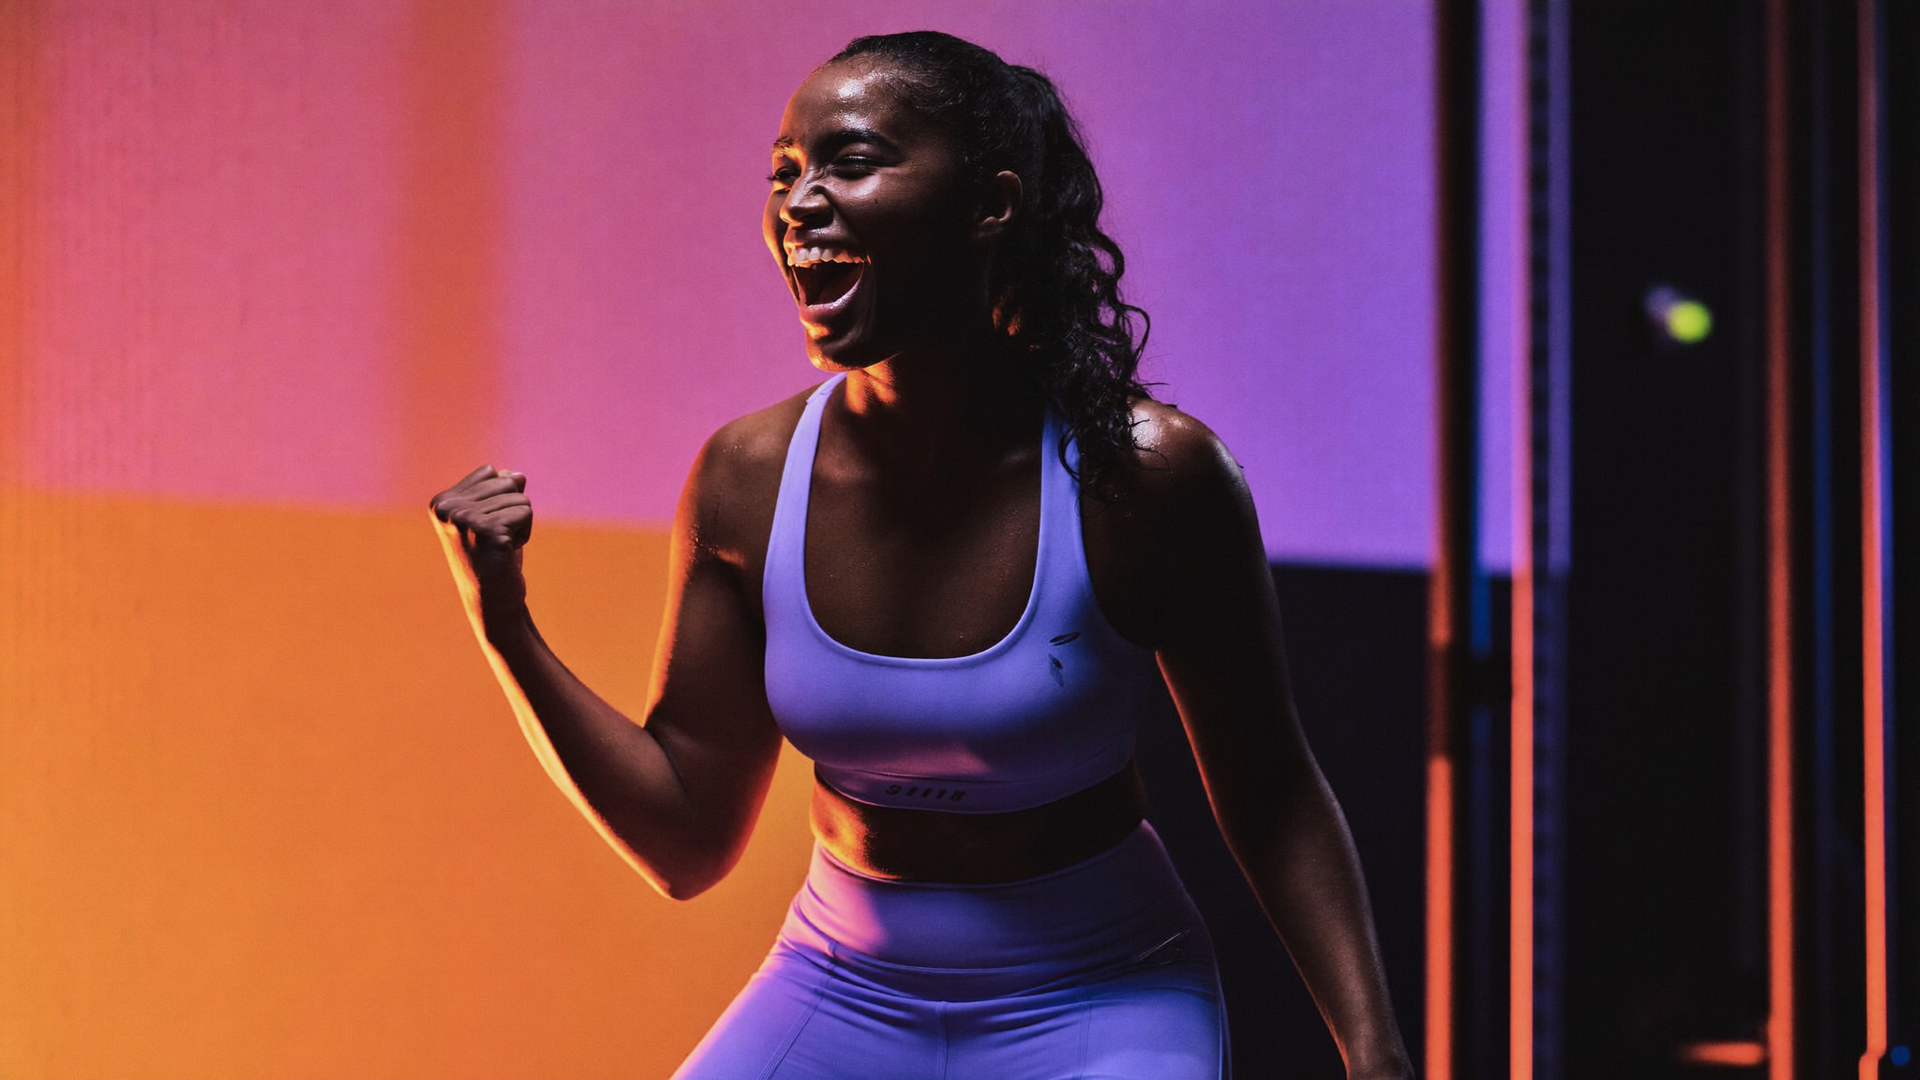
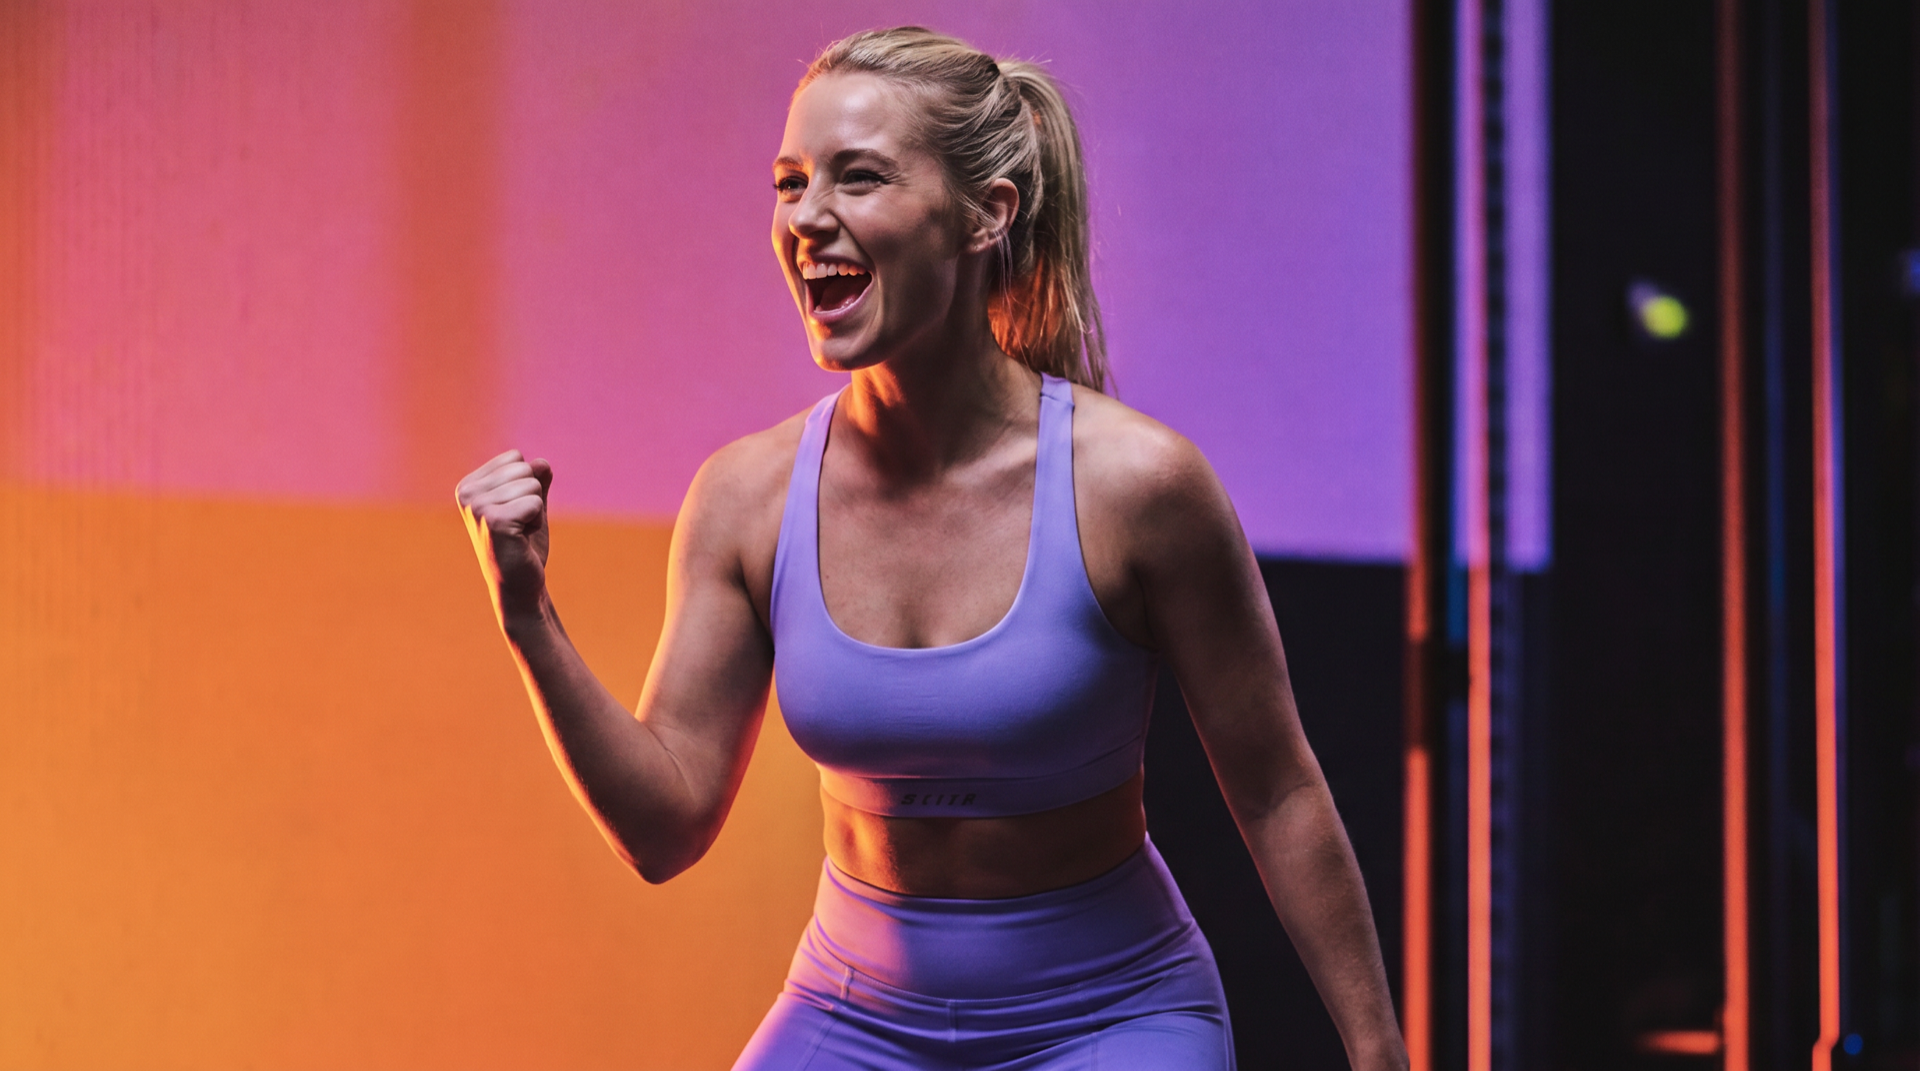
Hero swap to blonde athlete, corner-anchored step badges, seamless marquee
- Hero image: same composition, blonde white woman (image-to-image edit)
- Landing pillars: step number badges now sit inside the image's top-left
  corner instead of floating outside it
- Marquee: replace flex gap with per-item right margin so the doubled track
  tiles exactly at -50% — fixes the stutter/restart, now a continuous loop

diff --git a/src/app/page.tsx b/src/app/page.tsx
@@ -149,10 +149,10 @@ export default function HomePage() {
                   />
                   <div className="absolute inset-0" style={{ background: "linear-gradient(160deg, transparent 55%, rgba(10,10,15,.45) 100%)" }} />
                 </div>
-                {/* Floating step number */}
+                {/* Step number — anchored in the image's top-left corner */}
                 <div
-                  className="absolute -top-5 left-6 md:left-auto md:-left-5 flex items-center justify-center rounded-2xl text-white"
-                  style={{ ...bebas, width: 76, height: 76, fontSize: 38, background: "linear-gradient(135deg, var(--og), var(--og2), var(--pm))", boxShadow: "0 12px 40px rgba(224,120,48,.4)" }}
+                  className="absolute top-4 left-4 z-10 flex items-center justify-center rounded-2xl text-white"
+                  style={{ ...bebas, width: 64, height: 64, fontSize: 32, background: "linear-gradient(135deg, var(--og), var(--og2), var(--pm))", boxShadow: "0 10px 30px rgba(224,120,48,.45)" }}
                 >
                   {p.n}
                 </div>

diff --git a/src/components/marquee.tsx b/src/components/marquee.tsx
@@ -7,11 +7,11 @@ export function Marquee({ items, reverse = false }: { items: string[]; reverse?:
   return (
     <div className="overflow-hidden py-5" style={{ borderTop: "1px solid var(--br)", borderBottom: "1px solid var(--br)" }}>
       <div
-        className="flex gap-[60px] w-max"
+        className="flex w-max"
         style={{ animation: `${reverse ? "marquee-reverse" : "marquee"} ${reverse ? "26s" : "22s"} linear infinite` }}
       >
         {doubled.map((item, i) => (
-          <span key={i} className="flex items-center gap-[18px] whitespace-nowrap text-[16px] tracking-[3px]" style={{ ...bebas, color: "rgba(255,255,255,.18)" }}>
+          <span key={i} className="flex items-center gap-[18px] whitespace-nowrap text-[16px] tracking-[3px] mr-[60px]" style={{ ...bebas, color: "rgba(255,255,255,.18)" }}>
             {item}
             <span className="inline-block w-1 h-1 rounded-full shrink-0" style={{ background: "linear-gradient(135deg, var(--og), var(--pl))" }} />
           </span>
